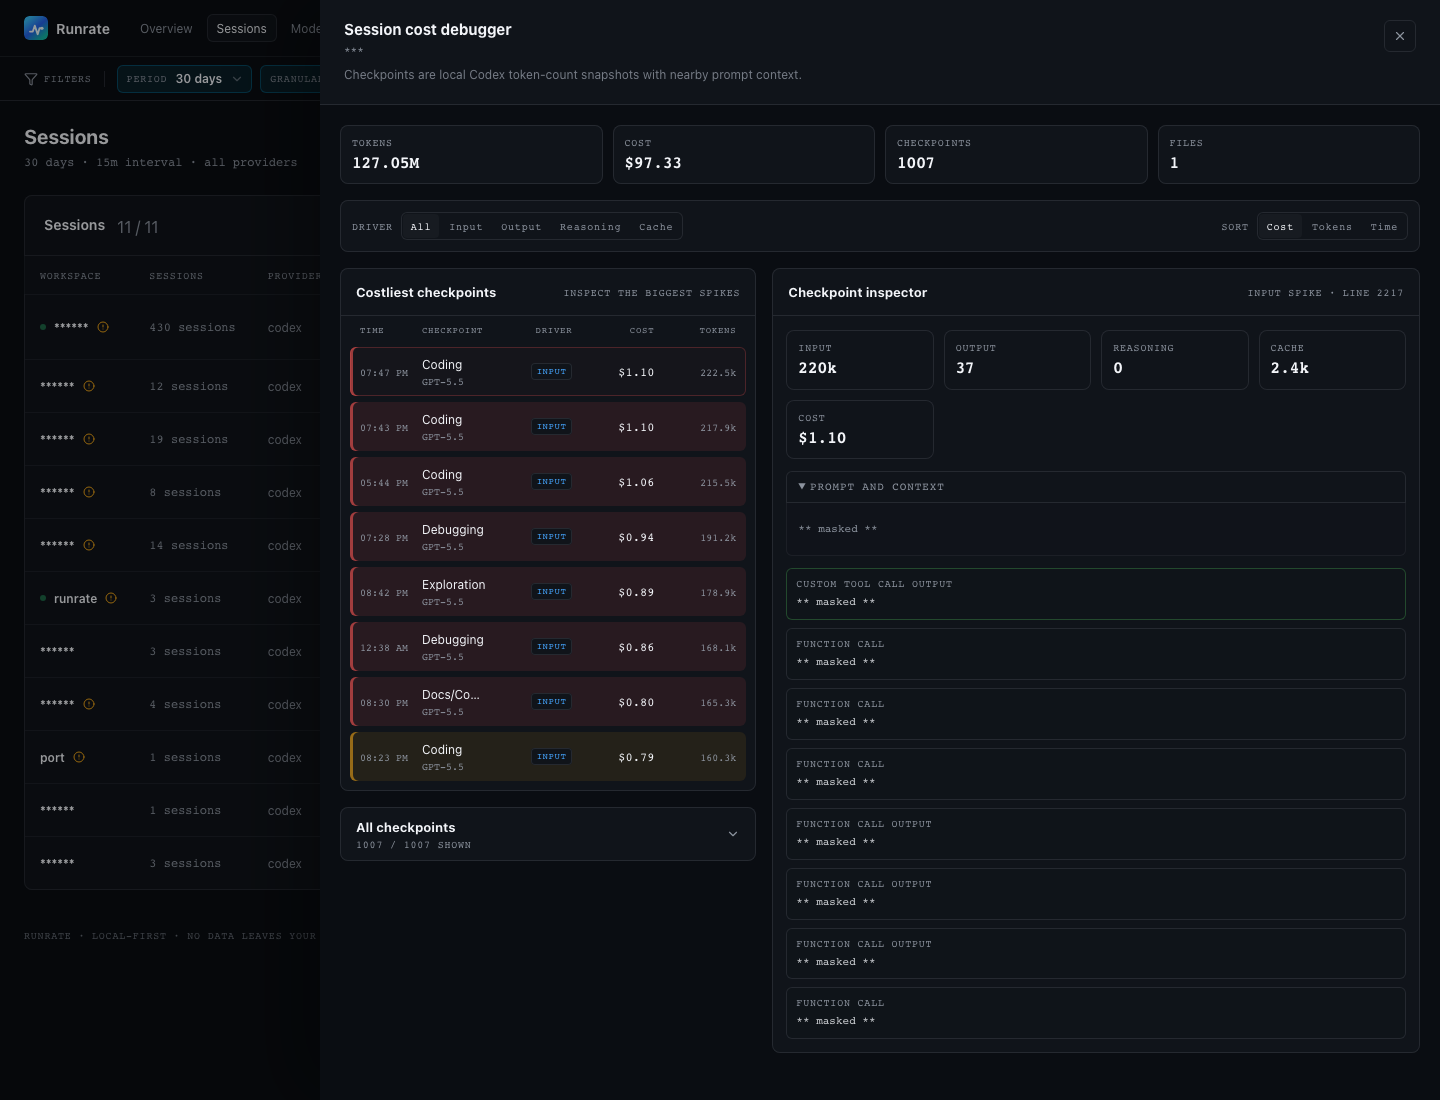
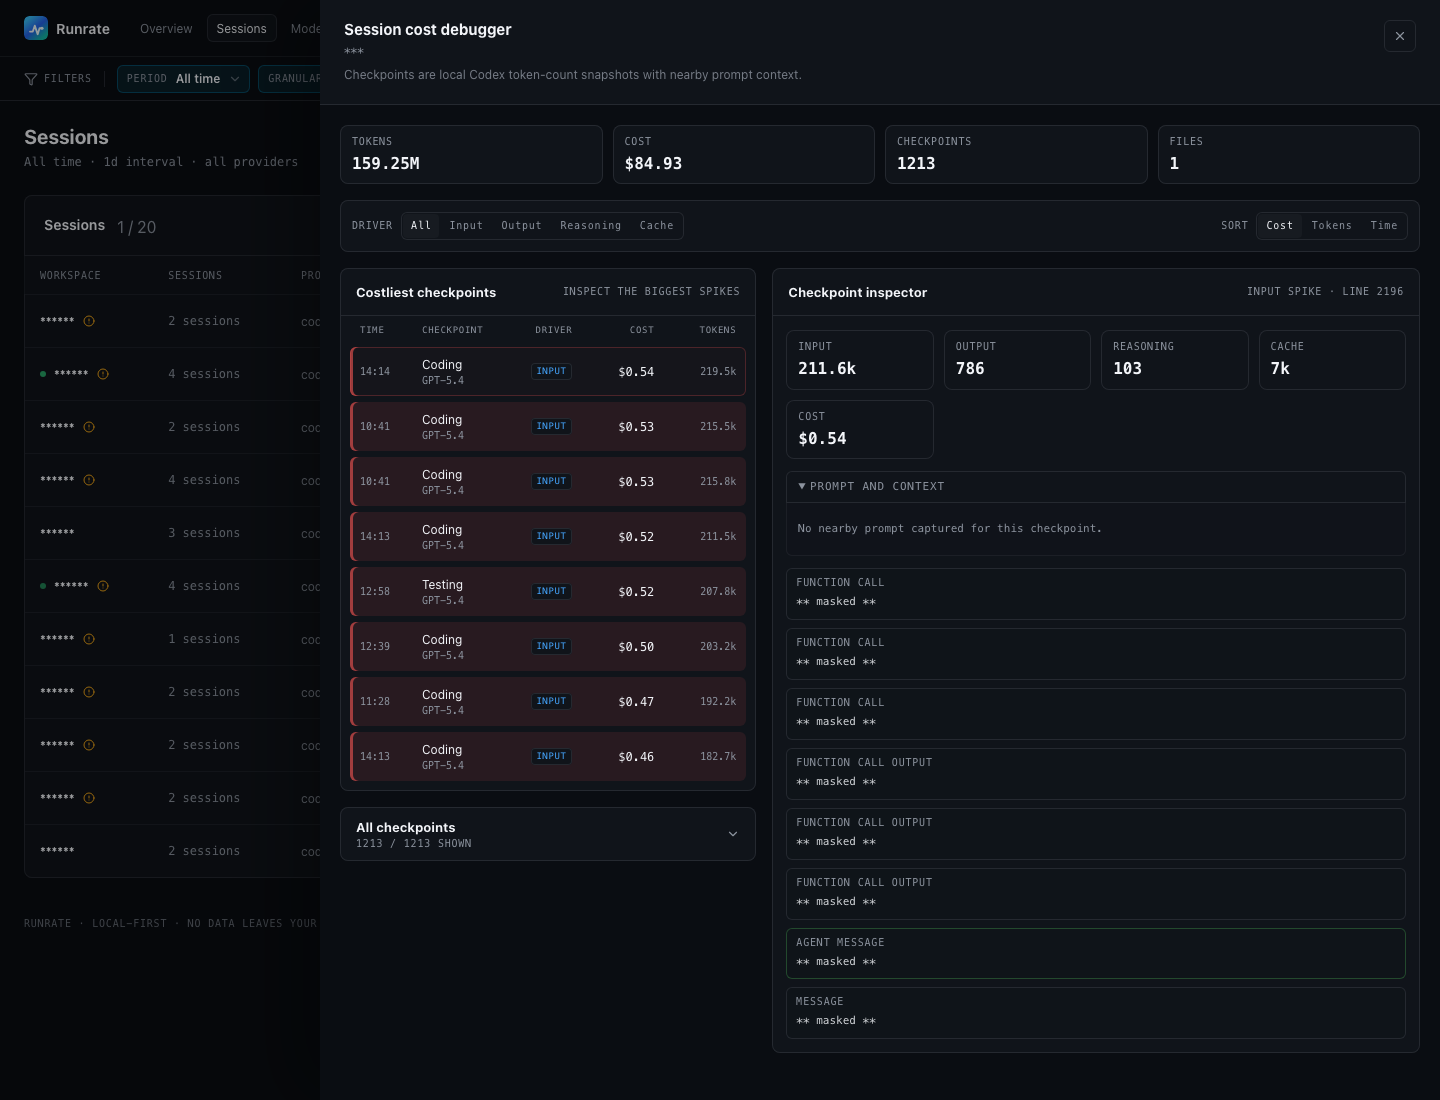
Release v1.1.1

diff --git a/src/web/app.tsx b/src/web/app.tsx
@@ -47,7 +47,7 @@ type SessionState = "active" | "idle" | "stale" | "closed";
 type ViewKey = "overview" | "sessions" | "models" | "costs" | "settings";
 type ChartScale = "linear" | "log";
 type SessionListMode = "workspace" | "session";
-type TokenSeriesKey = "input" | "output" | "reasoning";
+type TokenSeriesKey = "input" | "output" | "reasoning" | "cacheRead" | "cacheWrite";
 type RefreshIntervalMs = 15_000 | 30_000 | 60_000 | 300_000;
 type CheckpointDriverFilter = "all" | "input" | "output" | "reasoning" | "cache";
 type CheckpointSort = "cost" | "tokens" | "time";
@@ -170,6 +170,7 @@ interface ChartPoint {
   reasoning: number;
   start: string;
   cacheRead: number;
+  cacheWrite: number;
   cost: number;
   tickLabel: string;
   total: number;
@@ -231,10 +232,48 @@ const tokenColors = [
 const prefsKey = "runrate:prefs:v1";
 const viewKeys: ViewKey[] = ["overview", "sessions", "models", "costs", "settings"];
 const chartScales: ChartScale[] = ["linear", "log"];
-const tokenSeries: Array<{ color: string; key: TokenSeriesKey; label: string }> = [
-  { color: "var(--token-input)", key: "input", label: "Input" },
-  { color: "var(--token-output)", key: "output", label: "Output" },
-  { color: "var(--token-reasoning)", key: "reasoning", label: "Reasoning" },
+const tokenSeries: Array<{
+  color: string;
+  gradientId: string;
+  key: TokenSeriesKey;
+  label: string;
+  plotKey: `${TokenSeriesKey}Plot`;
+}> = [
+  {
+    color: "var(--token-cache-write)",
+    gradientId: "g-cache-write",
+    key: "cacheWrite",
+    label: "Cache write",
+    plotKey: "cacheWritePlot",
+  },
+  {
+    color: "var(--token-cache-read)",
+    gradientId: "g-cache-read",
+    key: "cacheRead",
+    label: "Cache read",
+    plotKey: "cacheReadPlot",
+  },
+  {
+    color: "var(--token-reasoning)",
+    gradientId: "g-reason",
+    key: "reasoning",
+    label: "Reasoning",
+    plotKey: "reasoningPlot",
+  },
+  {
+    color: "var(--token-output)",
+    gradientId: "g-output",
+    key: "output",
+    label: "Output",
+    plotKey: "outputPlot",
+  },
+  {
+    color: "var(--token-input)",
+    gradientId: "g-input",
+    key: "input",
+    label: "Input",
+    plotKey: "inputPlot",
+  },
 ];
 const categoryColorById: Record<string, string> = {
   coding: "var(--category-coding)",
@@ -1042,6 +1081,8 @@ function PrimaryChart({
     () =>
       chartData.map((point) => ({
         ...point,
+        cacheReadPlot: scale === "log" ? logValue(point.cacheRead) : point.cacheRead,
+        cacheWritePlot: scale === "log" ? logValue(point.cacheWrite) : point.cacheWrite,
         inputPlot: scale === "log" ? logValue(point.input) : point.input,
         outputPlot: scale === "log" ? logValue(point.output) : point.output,
         reasoningPlot: scale === "log" ? logValue(point.reasoning) : point.reasoning,
@@ -1108,18 +1149,12 @@ function PrimaryChart({
         <ResponsiveContainer height="100%" width="100%">
           <AreaChart data={plotData} margin={{ bottom: 0, left: 0, right: 8, top: 8 }}>
             <defs>
-              <linearGradient id="g-input" x1="0" x2="0" y1="0" y2="1">
-                <stop offset="0%" stopColor="var(--token-input)" stopOpacity={0.5} />
-                <stop offset="100%" stopColor="var(--token-input)" stopOpacity={0} />
-              </linearGradient>
-              <linearGradient id="g-output" x1="0" x2="0" y1="0" y2="1">
-                <stop offset="0%" stopColor="var(--token-output)" stopOpacity={0.45} />
-                <stop offset="100%" stopColor="var(--token-output)" stopOpacity={0} />
-              </linearGradient>
-              <linearGradient id="g-reason" x1="0" x2="0" y1="0" y2="1">
-                <stop offset="0%" stopColor="var(--token-reasoning)" stopOpacity={0.4} />
-                <stop offset="100%" stopColor="var(--token-reasoning)" stopOpacity={0} />
-              </linearGradient>
+              {tokenSeries.map((series) => (
+                <linearGradient id={series.gradientId} key={series.key} x1="0" x2="0" y1="0" y2="1">
+                  <stop offset="0%" stopColor={series.color} stopOpacity={0.44} />
+                  <stop offset="100%" stopColor={series.color} stopOpacity={0} />
+                </linearGradient>
+              ))}
             </defs>
             <CartesianGrid stroke="var(--border)" strokeDasharray="2 4" vertical={false} />
             <XAxis
@@ -1148,39 +1183,20 @@ function PrimaryChart({
               content={<ChartTooltip />}
               cursor={{ stroke: "var(--border)", strokeWidth: 1 }}
             />
-            {visibleSeries.has("reasoning") ? (
-              <Area
-                dataKey="reasoningPlot"
-                fill="url(#g-reason)"
-                name="reasoning"
-                stroke="var(--token-reasoning)"
-                strokeWidth={1.5}
-                type="monotone"
-                {...(scale === "linear" ? { stackId: "1" } : {})}
-              />
-            ) : null}
-            {visibleSeries.has("output") ? (
-              <Area
-                dataKey="outputPlot"
-                fill="url(#g-output)"
-                name="output"
-                stroke="var(--token-output)"
-                strokeWidth={1.5}
-                type="monotone"
-                {...(scale === "linear" ? { stackId: "1" } : {})}
-              />
-            ) : null}
-            {visibleSeries.has("input") ? (
-              <Area
-                dataKey="inputPlot"
-                fill="url(#g-input)"
-                name="input"
-                stroke="var(--token-input)"
-                strokeWidth={1.5}
-                type="monotone"
-                {...(scale === "linear" ? { stackId: "1" } : {})}
-              />
-            ) : null}
+            {tokenSeries.map((series) =>
+              visibleSeries.has(series.key) ? (
+                <Area
+                  dataKey={series.plotKey}
+                  fill={`url(#${series.gradientId})`}
+                  key={series.key}
+                  name={series.key}
+                  stroke={series.color}
+                  strokeWidth={1.5}
+                  type="monotone"
+                  {...(scale === "linear" ? { stackId: "1" } : {})}
+                />
+              ) : null,
+            )}
           </AreaChart>
         </ResponsiveContainer>
       </div>
@@ -1202,7 +1218,7 @@ function ChartTooltip({ active, payload }: any) {
         return (
           <div className="tooltip-row" key={item.dataKey}>
             <span style={{ background: item.color }} />
-            <p>{labelKey}</p>
+            <p>{formatSeriesLabel(labelKey)}</p>
             <strong>
               {labelKey.toLowerCase().includes("cost")
                 ? formatCost(rawValue)
@@ -2302,6 +2318,7 @@ function toChartData(bins: UsageBin[]): ChartPoint[] {
   const tickLabels = formatTickLabels(bins);
   return bins.map((bin, index) => ({
     cacheRead: bin.totals.cacheRead,
+    cacheWrite: bin.totals.cacheWrite,
     cost: bin.totals.costUsd,
     end: bin.end,
     input: bin.totals.inputFresh,
@@ -2313,6 +2330,11 @@ function toChartData(bins: UsageBin[]): ChartPoint[] {
     tickLabel: tickLabels[index] ?? "",
     total: bin.totals.totalTokens,
   }));
+}
+
+function formatSeriesLabel(value: string): string {
+  const series = tokenSeries.find((item) => item.key === value);
+  return series?.label ?? value;
 }
 
 function toUiSession(session: SessionSummary): UiSession {

diff --git a/src/core/aggregate.ts b/src/core/aggregate.ts
@@ -22,7 +22,6 @@ export interface AggregateOptions {
   sinceMs?: number | null | undefined;
   untilMs?: number | undefined;
   binMs?: number | undefined;
-  maxBins?: number | undefined;
   windowLabel?: string | undefined;
   scope: ActiveScope;
   pricingMode: PricingMode;
@@ -115,7 +114,6 @@ export const aggregateEvents = (
   const sinceMs =
     options.sinceMs === null ? null : (options.sinceMs ?? untilMs - preset.durationMs);
   const binMs = options.binMs ?? preset.binMs;
-  const maxBins = options.maxBins ?? Number.POSITIVE_INFINITY;
 
   const filtered = events.filter((event) => eventPassesFilters(event, options, sinceMs, untilMs));
   filtered.sort((a, b) => a.occurredAt.localeCompare(b.occurredAt));
@@ -161,9 +159,7 @@ export const aggregateEvents = (
   const firstEventMs = Date.parse(filtered[0]?.occurredAt ?? new Date(untilMs).toISOString());
   const rangeStartMs = sinceMs ?? firstEventMs;
   const lastBin = floorToBin(untilMs, binMs);
-  const maxBinsStartMs =
-    Number.isFinite(maxBins) && maxBins > 0 ? lastBin - (maxBins - 1) * binMs : rangeStartMs;
-  const firstBin = floorToBin(Math.max(rangeStartMs, maxBinsStartMs), binMs);
+  const firstBin = floorToBin(rangeStartMs, binMs);
   for (let start = firstBin; start <= lastBin; start += binMs) {
     const accumulator = binAccumulators.get(start) ?? createAccumulator();
     bins.push({

diff --git a/src/web/server.ts b/src/web/server.ts
@@ -61,7 +61,6 @@ interface PeriodRange extends PeriodOption {
 const DEFAULT_PORT = 43871;
 const DEFAULT_HOST = "127.0.0.1";
 const MAX_PORT_ATTEMPTS = 64;
-const MAX_CHART_BINS = 160;
 const NORMALIZE_BATCH_SIZE = 2_000;
 const RESPONSE_CACHE_MS = 2_000;
 const HOUR_MS = 60 * 60_000;
@@ -303,7 +302,6 @@ const loadDashboardData = async (
     sinceMs: range.sinceMs,
     untilMs: range.untilMs,
     binMs,
-    maxBins: MAX_CHART_BINS,
     scope: options.initialScope,
     pricingMode: options.pricingMode,
     provider,

diff --git a/src/version.ts b/src/version.ts
@@ -1,1 +1,1 @@
-export const VERSION = "1.1.0";
+export const VERSION = "1.1.1";

diff --git a/README.md b/README.md
@@ -11,18 +11,18 @@
 [![Good first issues](https://img.shields.io/github/issues/crup/runrate/good%20first%20issue?label=good%20first%20issues)](https://github.com/crup/runrate/issues?q=is%3Aissue%20state%3Aopen%20label%3A%22good%20first%20issue%22)
 [![Contributors](https://img.shields.io/github/contributors/crup/runrate)](https://github.com/crup/runrate/graphs/contributors)
 [![Last commit](https://img.shields.io/github/last-commit/crup/runrate)](https://github.com/crup/runrate/commits/main)
-[![Status](https://img.shields.io/badge/status-1.1%20ready-22c55e)](#status)
+[![Status](https://img.shields.io/badge/status-1.1.1%20ready-22c55e)](#status)
 [![Tests](https://img.shields.io/badge/tests-vitest%207%20passing-22c55e)](#development)
 
 ```bash
 npx @crup/runrate
 ```
 
-Runrate opens a local React dashboard for the usage data your coding agents already write to disk. No hosted account. No proxy. No remote collector. Version `1.1.0` adds a Codex session cost debugger for finding the prompt/tool checkpoints behind usage spikes.
+Runrate opens a local React dashboard for the usage data your coding agents already write to disk. No hosted account. No proxy. No remote collector. Version `1.1.1` fixes fine-grained charts so the graph covers the full selected period and includes cache-token volume.
 
 ![Runrate dark dashboard](assets/readme/dark.png)
 
-The README screenshots are from real local Codex usage in the 30-day, 15-minute, log-scale workspace view. Private project names are masked as `******`, session ids are masked as `***`, and debugger prompt/tool context is masked as `** masked **`. Public/open project names such as `runrate`, `port`, and `react-timer-hook` are left visible.
+The README screenshots are from real local Codex usage in the All time, 1-day, workspace view. Private project names are masked as `******`, session ids are masked as `***`, and debugger prompt/tool context is masked as `** masked **`. The public `oss` workspace is left visible.
 
 <details>
 <summary>Light mode screenshot</summary>
@@ -272,7 +272,7 @@ Runrate is local-first:
 
 Provider logs may contain sensitive prompts, file paths, repo names, session ids, or workspace metadata. Do not paste raw logs into public issues. Please share small redacted fixtures instead.
 
-The README screenshots are generated from real local Codex usage. Private project names are masked as `******`, session ids are masked as `***`, debugger prompt/tool context is masked as `** masked **`, and public/open project names such as `runrate`, `port`, and `react-timer-hook` are left visible.
+The README screenshots are generated from real local Codex usage. Private project names are masked as `******`, session ids are masked as `***`, debugger prompt/tool context is masked as `** masked **`, and the public `oss` workspace is left visible.
 
 ## Development
 

diff --git a/.github/releases/v1.1.1.md b/.github/releases/v1.1.1.md
@@ -1,0 +1,22 @@
+# Runrate v1.1.1
+
+This patch fixes dashboard charts for cache-heavy and fine-grained views.
+
+## Fixes
+
+- Removed the fixed chart-bin cap so explicit granularities such as `1m` and `1d` cover the full selected period instead of silently showing only the most recent bins.
+- Added cache read and cache write as first-class token series in the primary chart, so cache-heavy Codex sessions no longer look flat while totals continue increasing.
+- Kept chart totals aligned with the selected period across multi-model sessions.
+
+## Docs
+
+- Regenerated README screenshots from the All time, 1-day, workspace view.
+- Kept private workspace names, session ids, and debugger context masked in README assets.
+
+## Validation
+
+- TypeScript: passing
+- ESLint: passing
+- Prettier: passing
+- Vitest: 7 tests passing
+- Build: passing
